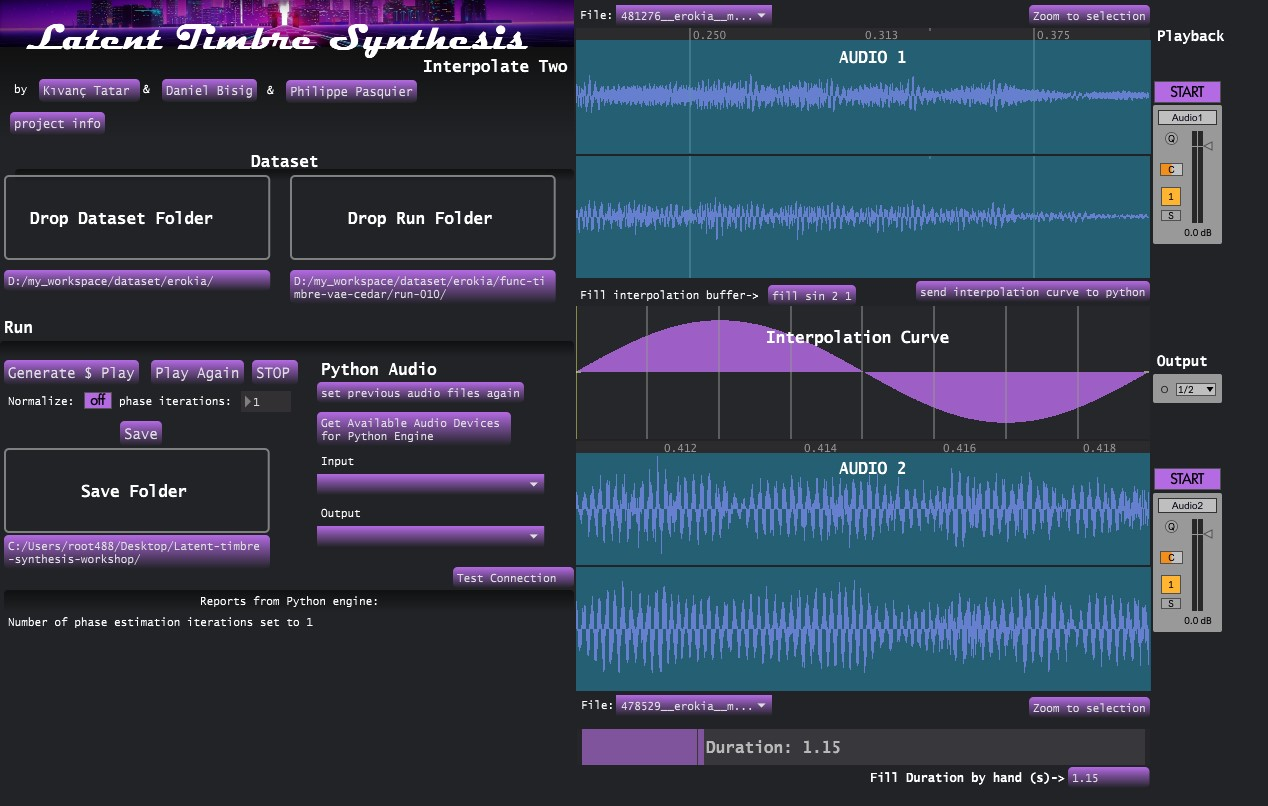
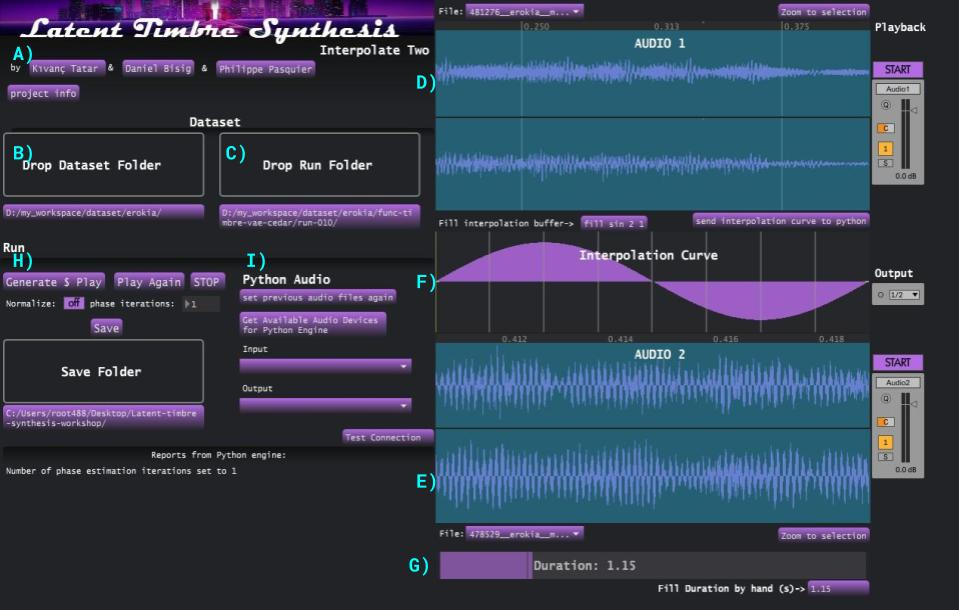
working on readme

diff --git a/README.md b/README.md
@@ -98,6 +98,8 @@ interpolate\_two has two engines, Max GUI and python engine. Python engine runs 
 
 ### The GUI in MAX 8
 
+![alt text](https://gitlab.com/ktatar/latent-timbre-synthesis/-/raw/master/images/interpolate_two_ui.jpg "interpolate_two GUI")
+
 A) Titles & Credits 
 
 B) Drop your dataset folder here 
